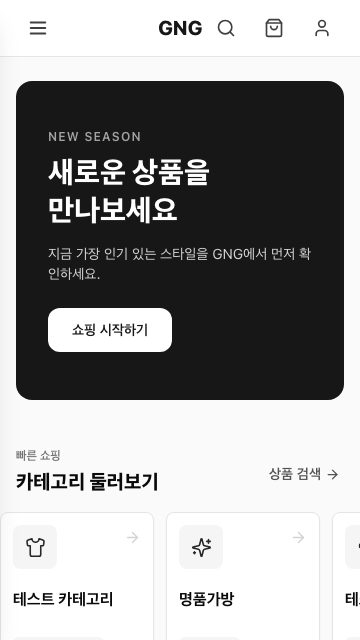
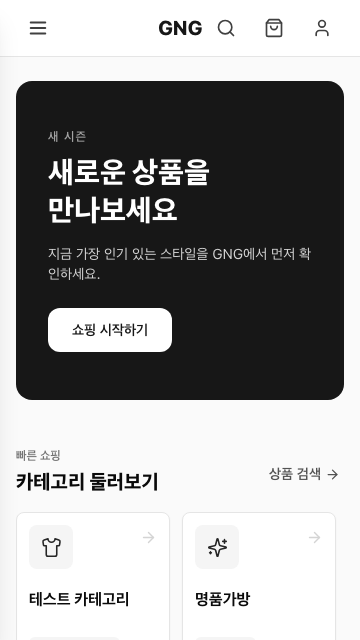
Allow removing items during checkout

diff --git a/src/app/(shop)/order/OrderPaymentForm.tsx b/src/app/(shop)/order/OrderPaymentForm.tsx
@@ -1,6 +1,7 @@
 'use client';
 
 import Image from 'next/image';
+import { useRouter } from 'next/navigation';
 import {
   Banknote,
   CalendarDays,
@@ -9,6 +10,7 @@ import {
   ClipboardList,
   ReceiptText,
   Search,
+  Trash2,
   Truck,
   UserRound,
   WalletCards,
@@ -187,6 +189,15 @@ function toWon(value: number): number {
   return Math.max(0, Math.floor(value));
 }
 
+function itemTotal(item: PaymentCartItem): number {
+  return Number(item.unitPrice) * item.quantity;
+}
+
+function checkoutShippingFee(subtotal: number): number {
+  if (subtotal <= 0) return 0;
+  return subtotal >= 50000 ? 0 : 3000;
+}
+
 function pointValue(value: string): number {
   if (!value) return 0;
   return toWon(Number(value.replace(/,/g, '')));
@@ -216,6 +227,15 @@ function PaymentSubmitButton({ finalTotal, disabled }: { finalTotal: number; dis
       {pending ? '처리 중' : `${formatKRW(finalTotal)} 구매하기`}
     </button>
   );
+}
+
+async function deleteOrderItem(skuId: string): Promise<boolean> {
+  const res = await fetch('/api/cart', {
+    method: 'PATCH',
+    headers: { 'Content-Type': 'application/json' },
+    body: JSON.stringify({ skuId, quantity: 0 }),
+  });
+  return res.ok;
 }
 
 function SelectField({
@@ -323,12 +343,11 @@ export function OrderPaymentForm({
   sessionEmail,
   cartItems,
   selectedSkuIds,
-  subtotal,
-  shippingFee,
   hasUnavailableItem,
   bankInfo,
   error,
 }: OrderPaymentFormProps) {
+  const router = useRouter();
   const defaultAddress = orderUser?.defaultAddress ?? null;
   const [receiver, setReceiver] = useState(defaultAddress?.receiver ?? orderUser?.name ?? '');
   const [phone, setPhone] = useState(defaultAddress?.phone ?? orderUser?.phone ?? '');
@@ -345,15 +364,28 @@ export function OrderPaymentForm({
   const [postcodeOpen, setPostcodeOpen] = useState(false);
   const [postcodeError, setPostcodeError] = useState('');
   const [postcodeLayerHeight, setPostcodeLayerHeight] = useState(480);
+  const [removedSkuIds, setRemovedSkuIds] = useState<Set<string>>(() => new Set());
+  const [deletingSkuId, setDeletingSkuId] = useState<string | null>(null);
+  const [deleteError, setDeleteError] = useState('');
   const detailAddressRef = useRef<HTMLInputElement>(null);
   const postcodeLayerRef = useRef<HTMLDivElement>(null);
 
+  const visibleCartItems = useMemo(
+    () => cartItems.filter((item) => !removedSkuIds.has(item.skuId)),
+    [cartItems, removedSkuIds],
+  );
+  const visibleSkuIds = useMemo(() => {
+    const visibleSkuIdSet = new Set(visibleCartItems.map((item) => item.skuId));
+    return selectedSkuIds.filter((skuId) => visibleSkuIdSet.has(skuId));
+  }, [selectedSkuIds, visibleCartItems]);
+  const currentSubtotal = visibleCartItems.reduce((sum, item) => sum + itemTotal(item), 0);
+  const currentShippingFee = checkoutShippingFee(currentSubtotal);
   const selectedCoupon = useMemo(
     () => orderUser?.coupons.find((coupon) => coupon.id === couponIssueId),
     [couponIssueId, orderUser?.coupons],
   );
-  const couponDiscount = calculateCouponDiscount(selectedCoupon, subtotal);
-  const payableBeforePoints = toWon(subtotal + shippingFee - couponDiscount);
+  const couponDiscount = calculateCouponDiscount(selectedCoupon, currentSubtotal);
+  const payableBeforePoints = toWon(currentSubtotal + currentShippingFee - couponDiscount);
   const maxUsablePoints = Math.min(orderUser?.pointBalance ?? 0, payableBeforePoints);
   const appliedPoints = Math.min(pointValue(pointsToUse), maxUsablePoints);
   const remainingPoints = Math.max(0, (orderUser?.pointBalance ?? 0) - appliedPoints);
@@ -466,6 +498,32 @@ export function OrderPaymentForm({
     setPointsToUse(String(Math.min(pointValue(value), maxUsablePoints)));
   };
 
+  const removeOrderItem = async (skuId: string) => {
+    if (deletingSkuId) return;
+
+    setDeletingSkuId(skuId);
+    setDeleteError('');
+
+    try {
+      const ok = await deleteOrderItem(skuId);
+      if (!ok) {
+        setDeleteError('상품을 삭제하지 못했습니다. 잠시 후 다시 시도해 주세요.');
+        return;
+      }
+
+      setRemovedSkuIds((current) => {
+        const next = new Set(current);
+        next.add(skuId);
+        return next;
+      });
+      router.refresh();
+    } catch {
+      setDeleteError('상품을 삭제하지 못했습니다. 네트워크 상태를 확인해 주세요.');
+    } finally {
+      setDeletingSkuId(null);
+    }
+  };
+
   return (
     <>
       <div className="bg-neutral-50">
@@ -490,7 +548,7 @@ export function OrderPaymentForm({
             )}
 
             <form action={createOrderAction} className="space-y-4">
-              {selectedSkuIds.map((skuId) => (
+              {visibleSkuIds.map((skuId) => (
                 <input key={skuId} type="hidden" name="selectedSkuIds" value={skuId} />
               ))}
               <FormSection
@@ -884,8 +942,8 @@ export function OrderPaymentForm({
                       <span className="text-xs font-bold text-emerald-700">무통장입금</span>
                     </div>
                     <SummaryRows
-                      subtotal={subtotal}
-                      shippingFee={shippingFee}
+                      subtotal={currentSubtotal}
+                      shippingFee={currentShippingFee}
                       couponDiscount={couponDiscount}
                       appliedPoints={appliedPoints}
                       finalTotal={finalTotal}
@@ -908,7 +966,12 @@ export function OrderPaymentForm({
                 </label>
               </section>
 
-              <PaymentSubmitButton finalTotal={finalTotal} disabled={hasUnavailableItem} />
+              <PaymentSubmitButton
+                finalTotal={finalTotal}
+                disabled={
+                  hasUnavailableItem || Boolean(deletingSkuId) || visibleCartItems.length === 0
+                }
+              />
             </form>
           </section>
 
@@ -917,9 +980,17 @@ export function OrderPaymentForm({
               <ClipboardList aria-hidden="true" size={18} className="text-neutral-900" />
               <h2 className="text-base font-extrabold text-neutral-950">결제 요약</h2>
             </div>
+            {deleteError && (
+              <p className="mb-3 rounded-md border border-red-100 bg-red-50 px-3 py-2 text-xs font-medium text-red-700">
+                {deleteError}
+              </p>
+            )}
             <ul className="mb-4 space-y-3">
-              {cartItems.map((item) => (
-                <li key={item.skuId} className="flex gap-3 text-sm">
+              {visibleCartItems.map((item) => (
+                <li
+                  key={item.skuId}
+                  className="grid grid-cols-[56px_minmax(0,1fr)_auto] gap-3 text-sm"
+                >
                   <div className="relative h-14 w-14 shrink-0 overflow-hidden rounded-md bg-neutral-100">
                     {item.thumbnail && (
                       <Image
@@ -941,17 +1012,27 @@ export function OrderPaymentForm({
                       </p>
                     )}
                     <p className="mt-1 text-xs text-neutral-500">수량 {item.quantity}개</p>
+                    <p className="mt-1 text-sm font-extrabold text-neutral-950">
+                      {formatKRW(itemTotal(item))}
+                    </p>
                   </div>
-                  <span className="shrink-0 text-sm font-extrabold text-neutral-950">
-                    {formatKRW(Number(item.unitPrice) * item.quantity)}
-                  </span>
+                  <button
+                    type="button"
+                    disabled={Boolean(deletingSkuId)}
+                    onClick={() => void removeOrderItem(item.skuId)}
+                    className="flex h-11 w-11 shrink-0 items-center justify-center rounded-md border border-neutral-200 text-neutral-500 transition hover:border-red-200 hover:bg-red-50 hover:text-red-600 disabled:cursor-not-allowed disabled:border-neutral-100 disabled:text-neutral-300"
+                    aria-label={`${item.name} 삭제`}
+                    title="삭제"
+                  >
+                    <Trash2 aria-hidden="true" size={17} />
+                  </button>
                 </li>
               ))}
             </ul>
             <div className="border-t border-neutral-100 pt-4">
               <SummaryRows
-                subtotal={subtotal}
-                shippingFee={shippingFee}
+                subtotal={currentSubtotal}
+                shippingFee={currentShippingFee}
                 couponDiscount={couponDiscount}
                 appliedPoints={appliedPoints}
                 finalTotal={finalTotal}

diff --git a/src/app/page.tsx b/src/app/page.tsx
@@ -58,7 +58,7 @@ export default async function HomePage() {
           >
             <div className="relative z-10 flex h-full flex-col justify-center px-8 py-12 md:px-16">
               <span className="mb-2 text-xs font-semibold uppercase tracking-widest text-neutral-400">
-                New Season
+                새 시즌
               </span>
               <h1 className="mb-4 text-3xl font-extrabold leading-tight md:text-5xl">
                 새로운 상품을
@@ -97,7 +97,7 @@ export default async function HomePage() {
                 </Link>
               </div>
 
-              <ul className="-mx-4 flex snap-x gap-3 overflow-x-auto px-4 pb-2 md:mx-0 md:grid md:grid-cols-3 md:overflow-visible md:px-0 lg:grid-cols-4">
+              <ul className="flex snap-x gap-3 overflow-x-auto pb-2 md:grid md:grid-cols-3 md:overflow-visible lg:grid-cols-4">
                 {rootCategories.map((category, index) => (
                   <li key={category.id} className="min-w-[154px] snap-start md:min-w-0">
                     <CategoryCard category={category} index={index} />
